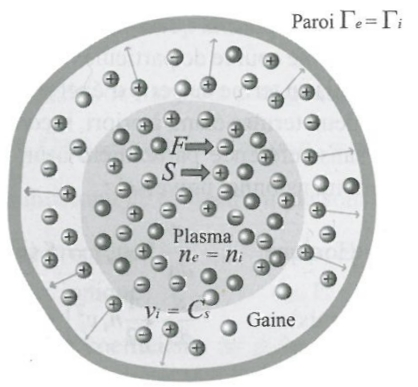
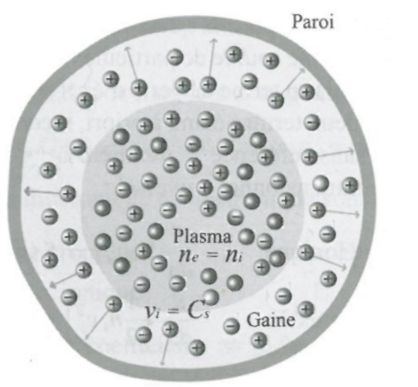
1002

diff --git a/introduction.tex b/introduction.tex
@@ -39,9 +39,10 @@ se caractérise par deux paramètres principaux :
 
 où $m_\text{e}$ est la masse de l'électron, et $e$ la charge élémentaire. Pour un électron possédant
 une énergie de \unit{1}{\electronvolt}, la vitesse thermique est de l'ordre de
-\unit{400}{\kilo\meter}.$s\puissance{-1}$.
+\unit{400}{\kilo\meter}/s.
 Du fait de la différence de masse, cette vitesse est bien inférieure pour les
-ions, qui à même énergie auront une vitesse thermique d'environ \unit{10}{\kilo\meter}.$s\puissance{-1}$.
+ions, qui à même énergie auront une vitesse thermique d'environ
+\unit{10}{\kilo\meter}/s.
 
 \begin{equation}
 	v_{\text{T}_\text{i}}\sim\left(m_\text{e}/m_\text{i}\right)^{\text{\textonehalf}}
@@ -106,13 +107,14 @@ particules chargées et les forces électromagnétiques présentent ou qui se
 forment dans le système :
 
 \begin{equation}
-\partial_t \mathbf v=q_\alpha(\mathbf E+ \mathbf v_\alpha\times\mathbf
-B)
+\frac{\text{d} \mathbf
+v_\alpha}{\text{dt}}=\frac{q_\alpha}{m_\alpha}(\mathbf E+ \mathbf
+v_\alpha\times\mathbf B)
 \end{equation}
 
-l'indice $\alpha$ dénotant le type de la particule chargée, $q_\alpha$ sa
-charge, $\mathbf v_\alpha$ sa vitesse et $(\mathbf E,\mathbf B)$ le champ
-électromagnétique.
+l'indice $\alpha$ dénotant le type de la particule chargée, $m_\alpha$
+et $q_\alpha$ sa masse et sa charge, $\mathbf v_\alpha$ sa vitesse et $(\mathbf
+E,\mathbf B)$ le champ électromagnétique.
 Elle se décompose principalement sur deux échelles de temps :
 la première phase correspond à l'équilibre électrostatique, où une
 quasineutralité s'établit au sein du plasma. Dans une deuxième phase, l'évolution quasineutre du
@@ -128,7 +130,7 @@ Cette dynamique est essentiellement portée par les électrons et décrite aux p
 
 \begin{align}
 \label{1-PFD}
-m_\text{e}\frac{\partial \mathbf{v}_\text{e}}{\partial t}=-e\mathbf E
+m_\text{e}\frac{\text{d} \mathbf{v}_\text{e}}{\text{d} t}=-e\mathbf E
 \;\;\;\;\;\;\text{et}\;\;\;\;\;\;
 \nabla\cdot\mathbf{E}=\rho\varepsilon\indice{0}\puissance{-1}
 \end{align}
@@ -159,16 +161,16 @@ C'est une longueur au-delà de laquelle le champ électrique créé par une part
 un nuage de particules de charge opposée. Dans un plasma chaque particule est écrantée et participe
 à l'écrantage des autres ; Le nombre de particules présentes
 dans la sphère de rayon $\lambda_\text{D}$ définit alors un paramètre
-adimensionné \footnote{Un
+adimensionné\footnote{Un
 grand nombre de particules dans la sphère de Debye $4\pi/3\,n\lambda_D^3\gg1$
 définit un plasma idéal, où le phénomène d'écrantage électrique est
-dominant.}semblable au paramètre plasma \eqrefp{1-paramPlasma}.
+dominant.} semblable au paramètre plasma \eqrefp{1-paramPlasma}.
 
-Au delà de ces échelles, le plasma est dans un état de \emph{quasi-neutralité},
+Au delà de ces échelles, le plasma est dans un état de \emph{quasi-neutralité}
 \footnote{La quasi-neutralité n'est pas la seule conséquence de ce phénomène de réorganisation
 de charges : lors de l'application d'un champ électrique ou magnétique, celui-ci est rapidement
 écranté par le plasma, les particules se
-déplaçant afin de créer un champ opposé.} 
+déplaçant afin de créer un champ opposé.}, 
 ie. où :
 
 \begin{equation}
@@ -343,7 +345,8 @@ induit une troisième sorte de mouvement, appelé communément "dérive
 ExB" (E-cross-B) : le phénomène de dérive se décrit comme un lent déplacement du
 centre guide de la particule, perpendiculairement aux champs électrique et
 magnétique (cf. figure \ref{1-particleDrifts}). Son expression s'obtient en
-prenant le produit vectoriel de l'equation du mouvement et du champ magnétique :
+prenant le produit vectoriel de l'équation du mouvement par le champ magnétique
+:
 
 \begin{equation}
 \mathbf{v}_E=\frac{\mathbf{E}\times\mathbf{B}}{B^2}
@@ -366,10 +369,13 @@ Si la force $\mathbf F$ est indépendante de la charge de la particule ou
 fonction de la masse de la particule, cette vitesse de dérive induira un courant $\mathbf
 j\indice{\text{F}}=en(\mathbf v\indice{\text{F}_\text{i}}-\mathbf
 v\indice{\text{F}_\text{e}})$. Dans un plasma, où l'anisotropie du champ
-magnétique est souvent utilisée pour contrôler et limiter le déplacement des particules, l'apparition de vitesse de dérives peut alors entraîner des
-comportements complexes.
+magnétique est souvent utilisée pour contrôler et limiter le déplacement des
+particules, l'apparition de vitesse de dérives peut alors entraîner des
+effets non désirables par le développement de comportements non-linéaires
+complexes.
 
 \subsection{Les gaines électrostatiques}
+\subsubsection{Physique de la gaine}
 La gaine de Debye (ou gaine électrostatique) est une structure non
 neutre qui apparait le long des parois, des électrodes ou de tout obstacle
 matériel en contact avec le plasma. A l'interface plasma-solide, les
@@ -379,37 +385,67 @@ relativement au plasma.
 Suite à l'augmentation progressive de ce potentiel, qui attire de plus en plus
 les ions tout en repoussant les électrons, une région de densité ionique
 supérieure, que l'on appelle gaine, se forme en périphérie du plasma (voir
-figure~\ref{1-gaine}.
+figure~\ref{1-gaine}). La taille de cette gaine est de l'ordre de la longueur de Debye
+$\lambda_D$, et est donc fortement dépendante de la densité plasma. 
 
 \begin{figure}[htbp]
 \centering
-\includegraphics[width=0.8\textwidth]{figures/mouvementCyclotron.png}
-{\caption{Mouvement cyclotronique des particules autour des lignes de champ
-magnétique.}\label{1-gaine}}
+\includegraphics[height=80mm,width=80mm]{figures/sheath1.jpg}{\caption{Séparation
+du plasma entre une région quasineutre et la gaine à sa
+périphérie. A la frontière, il y a rupture de la quasineutralité et la vitesse
+ionique est égale à la vitesse de Bohm $C_s$\parencite{Rax}.}\label{1-gaine}}
 \end{figure}
 
-L'apparition de la gaine est fondamentalement relié à l'établissement de la
-quasineutralité et de la diffusion ambipolaire qui s'opère lors de la formation
-d'un plasma. Ce phénomène sera détaillé dans la suite du chapitre
-(§\ref{1-transportAmbipolaire}, mais nous pouvons d'ores et déjà introduire
-quelques idées. La taille gaine, de l'ordre de la longueur
-de Debye $\lambda\indice{D}$, diminue le champ électrique
-généré par la charge d'espace positive est suffisement imporant pour écranter le potentiel de la surface.
+Considérons de nouveau l'équation de Poisson, qui contrôle l'évolution du
+potentiel électrique, au voisinage de la paroi :
+\begin{equation}
+\frac{d\puissance{2}\Phi}{d\xi}=\frac{1}{\lambda_D\puissance{2}}\frac{n_\text{e}-n_\text{i}}{n\indice{0}}
+\end{equation}
+ où $\Phi$ est le potentiel normalisé $\Phi=eU/T_\text{e}$, $\xi$ est la
+ direction normale à la paroi, $n_\text{e}$ et $n_\text{i}$ les densités
+ électronique et ionique respectivement, et $n\indice{0}$ la densité
+ moyenne du plasma. Dans la limite où $\lambda_D\ll L$ l'équation de
+ poisson permet de distinguer les deux régions :
 
-Comme $\lambda\indice{D}$ est 
+ \begin{itemize}
+   \item La gaine, fine épaisseur de peau du plasma de taille caractérisique
+   $\lambda_D$, où l'électroneutralité est rompue et où se développe un fort
+   gradient de potentiel ($d\Phi/d\xi\sim 1/\lambda_D$)
+   \item Le reste du plasma, de taille caractéristique $L$, qui satisfait
+   à l'hypothèse de quasineutralité dans la mesure où le potentiel varie en
+   $d\Phi/d\xi\sim1/L$
+ \end{itemize}
 
-Le phénomène de 
-Ce phénomène, régit par les mêmes échelles que l
+L'étude de la transition plasma-gaine donne lieu à l'énoncé du critère de
+Bohm \parencite{Stangeby}, qui impose la vitesse ionique en entrée de
+gaine, $C_s$, communément appelée vitesse de Bohm ou encore vitesse acoustique
+ionique\footnote{la deuxième appellation provient de la similitude entre la
+transition subsonique-supersonique qui s'observe dans les gaz neutres. Les ondes
+acoustiques, reliées aux surpressions et aux souspressions, se propagent dans un
+plasma par le champ électrique. L'élasticité du plasma est alors due à la
+température électronique $T_\text{e}$ et à l'inertie ionique.} :
 
- de
-atteindre un équilibre dans lequel assurant une égalité des flux tombant à la surface.
+\begin{equation}
+C_\text{s}=\sqrt{\frac{q_\text{i} (T_\text{e}+T_\text{i})}{m_\text{i}}}
+\end{equation}
 
+\begin{figure}[htbp]
+\centering
+\includegraphics[height=90mm,width=100mm]{figures/sheath2.jpg}{\caption{Profiles
+des densités électronique et ioniques,
+du potentiel et de la vitesse ionique à
+la transition plasma-gaine\parencite{Rax}.}\label{1-profilesgaine}}
+\end{figure}
 
+\begin{equation}
+j_\text{eg}=en\indice{eg}C_s\left(1-\exp{(\Lambda-\Delta\Phi/T_\text{e})}\right)
+\end{equation} 
 
-\subsubsection{Physique de la prégaine}
-\subsubsection{Physique de la gaine}
+où $n\indice{0}$ est
+  En fait, le rôle de
+la gaine est de maintenir une quasineutralité dans l'ensemble du plasma en régulant les flux à sa périphérie.
+
 \subsubsection{Gaine dans les plasmas magnétisés}
-\subsubsection{Problématique de la gaine parallèle aux lignes de champ}
 
 \section{Equations fluides et phénomènes de transport}
 \label{Maxwell-Boltzmann}

diff --git a/macro.tex b/macro.tex
@@ -151,8 +151,8 @@
 \newcommand{\indice}[1]{_{_{#1}}}
 
 \newcommand{\para}{{\mkern3mu\vphantom{\perp}\vrule depth 0pt\mkern3mu\vrule depth 0pt\mkern3mu}}
-\renewcommand{\eqref}[1]{\hbox{Eq.~\thechapter-\ref{#1}}}
-\newcommand{\eqrefp}[1]{\hbox{(Eq.~\thechapter-\ref{#1})}}
+\renewcommand{\eqref}[1]{\hbox{Eq.~\ref{#1}}}
+\newcommand{\eqrefp}[1]{\hbox{(Eq.~\ref{#1})}}
 
 
 %\newcommand{\artlabel}[1]{{\sc #1.}}
